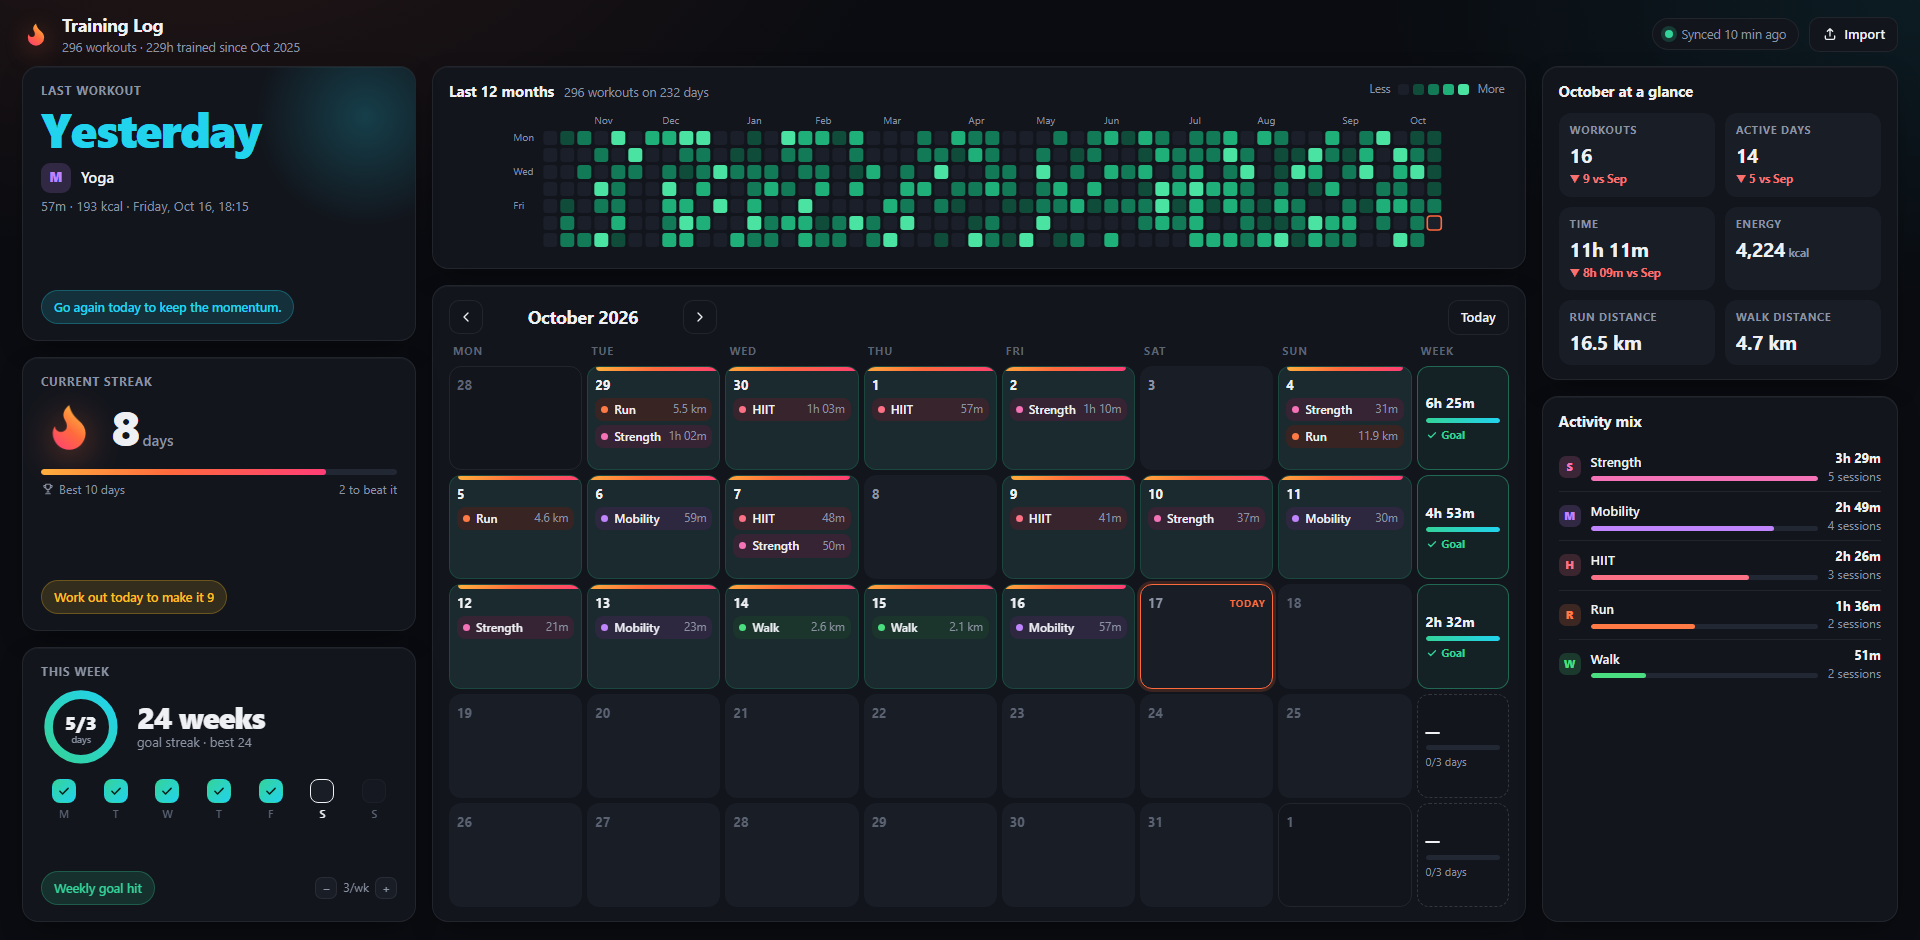
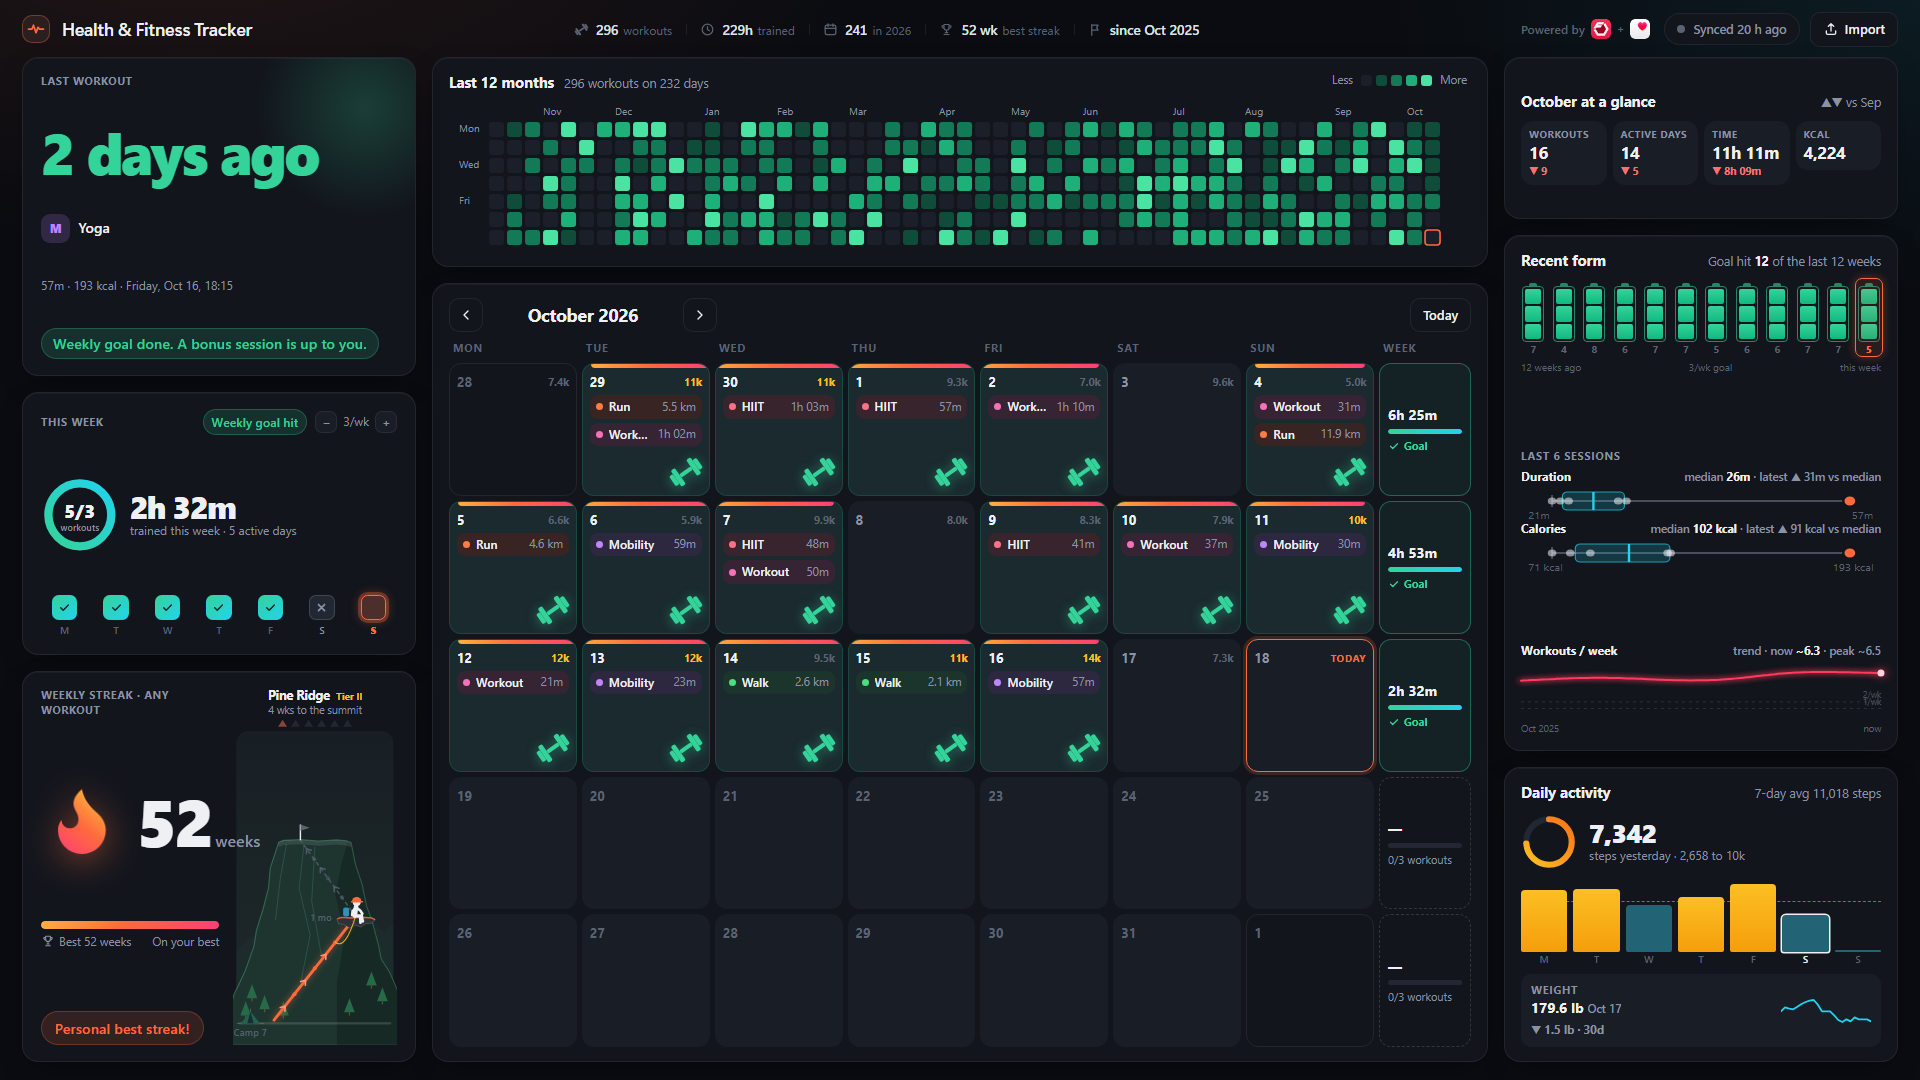
Update README and images for the current dashboard
The README described an older dashboard. It now covers the rest-day
aware nudge, the adjustable weekly goal, the Recent form trend line, the
smaller-window one-screen layout and Carl's climb. A new "Carl's climb"
section explains the mountain and fall rules, the API table lists
/analytics/weekly, the test badge shows 109, and "trend charts" is off
the not-yet list.

The dashboard screenshot is regenerated from the demo data at 1920x1080.
The pipeline banner now names the dashboard "Fitness Tracker" instead of
"Training Log".

diff --git a/README.md b/README.md
@@ -10,7 +10,8 @@
 Log a session in <a href="https://apps.apple.com/us/app/fitbod-gym-fitness-planner/id1041517543">Fitbod</a> (or any app that writes to Apple Health),
 and <a href="https://apps.apple.com/us/app/health-auto-export-json-csv/id1115567069">Health Auto Export</a>
 pushes it to a small receiver on your PC. The dashboard turns it into streaks, a year heatmap and a
-training calendar, so you always know when you last trained and what keeps the streak alive.
+training calendar, so you always know when you last trained and what keeps the streak alive. Your
+weekly streak becomes Carl, a little climber working his way up a new mountain every two months.
 </p>
 
 <p>
@@ -18,7 +19,7 @@ training calendar, so you always know when you last trained and what keeps the s
 <img alt="FastAPI" src="https://img.shields.io/badge/FastAPI-009688?logo=fastapi&logoColor=white">
 <img alt="SQLite" src="https://img.shields.io/badge/SQLite-003B57?logo=sqlite&logoColor=white">
 <img alt="Vanilla JS" src="https://img.shields.io/badge/frontend-vanilla%20JS-F7DF1E?logo=javascript&logoColor=black">
-<img alt="Tests" src="https://img.shields.io/badge/tests-101%20passing-34D399">
+<img alt="Tests" src="https://img.shields.io/badge/tests-109%20passing-34D399">
 <img alt="Local only" src="https://img.shields.io/badge/data-stays%20on%20your%20PC-FF6A3D">
 </p>
 
@@ -33,20 +34,26 @@ training calendar, so you always know when you last trained and what keeps the s
 
 <br>
 
-<img src="docs/images/dashboard.png" alt="Health &amp; Fitness Tracker dashboard showing last workout, current streak, weekly goal, a 12-month heatmap, the month calendar with streak bands, and month statistics" width="100%">
+<img src="docs/images/dashboard.png" alt="Health &amp; Fitness Tracker dashboard showing the last workout, this week's goal ring, the weekly streak with Carl's climb, a 12-month heatmap, the month calendar, recent form and daily activity" width="100%">
 <p align="center"><sub>Dashboard shown with generated demo data.</sub></p>
 
 ## Highlights
 
 - **Zero-touch sync.** Health Auto Export pushes new workouts in the background. Nothing to tap, no cloud
   account, no third-party server in between.
-- **Built to keep you consistent.** Time since your last workout, a weekly streak (weeks in a row with any workout)
-  with your personal best, a weekly goal ring (3 workouts), a GitHub-style heatmap of the last 12 months,
-  and a "Recent form" card: 12 weeks of goal history plus box plots of your last 6 sessions' duration and calories.
+- **Built to keep you consistent.** Time since your last workout with a rest-day-aware nudge, a weekly goal
+  ring (3 workouts by default, adjustable) with each day of the week ticked off, a weekly streak (weeks in a
+  row with any workout) with your personal best, and a GitHub-style heatmap of the last 12 months.
+- **Carl's climb.** The weekly streak card shows Carl climbing six themed mountains a year, one every
+  8 weeks: Pine Ridge, Red Rock Mesa, Ember Peak, Frost Spire, Canopy Crag and Summit of Stars. He pitches a
+  new camp on each summit, and after a full year the cycle repeats as a higher tier. See
+  [climb rules](#carls-climb).
+- **Recent form.** The last 12 weeks as batteries (one cell per workout of the goal), box plots of your last
+  6 sessions' duration and calories, and a smoothed workouts-per-week trend since you started.
 - **Daily activity too.** Steps (with a 10k goal and 7-day bars), walking distance, active energy, flights
   and a 30-day weight trend from a second Health Metrics automation; each calendar day shows its steps.
-- **One-screen dashboard.** Everything fits a 1080p monitor without scrolling; falls back to a scrolling
-  layout on smaller screens and phones.
+- **One-screen dashboard.** Everything fits on one screen without scrolling, from 1080p down to small laptop
+  windows (less important details hide first). It falls back to a scrolling layout on phones.
 - **Correct data.** Units normalised to metric, timezones preserved (a late-night workout stays on its day),
   re-sent workouts de-duplicated, and one malformed workout never blocks the rest of a sync.
 - **Private by default.** Token-protected ingest, dashboard reachable only from your PC, all data in a
@@ -130,7 +137,7 @@ samples. Unsummarized samples from several devices can overlap and inflate daily
 | HAE v2 → canonical model | `app/normalize.py`, `app/units.py`, `app/timeparse.py` |
 | Schema + migrations (`PRAGMA user_version`) | `app/db.py` |
 | Read queries shaped for the API | `app/queries.py` |
-| Streaks, per-day activity | `app/analytics.py` |
+| Streaks, per-day and per-week activity | `app/analytics.py` |
 | Health metrics storage + daily aggregation | `app/metrics.py` |
 | Dashboard UI (vanilla JS, no build) | `static/` |
 
@@ -184,6 +191,7 @@ All responses are JSON; errors are `{"error": {"code", "message", "details"}}`. 
 | `DELETE /api/v1/workouts/{id}` | this PC only |
 | `GET /api/v1/analytics/overview?today=YYYY-MM-DD&weekly_goal=3` | this PC only — last workout, day/week streaks, totals |
 | `GET /api/v1/analytics/days?from=&to=` | this PC only — per-day counts and time (heatmap) |
+| `GET /api/v1/analytics/weekly?today=YYYY-MM-DD` | this PC only — workouts per week since the first workout (zero-filled) |
 | `GET /api/v1/metrics` | this PC only — health metrics received, with date ranges |
 | `GET /api/v1/metrics/daily?names=step_count,weight_body_mass&from=&to=` | this PC only — daily values per metric |
 
@@ -193,6 +201,20 @@ at least one workout of any kind. Separately, `week_streak` tracks weeks reachin
 For both, the current week joins once it qualifies; until then the streak runs through last week and is
 flagged `at_risk`, with `remaining` workouts and `days_left`. `today` comes from the viewer so streaks never
 depend on the server's timezone.
+
+### Carl's climb
+
+The climb is replayed in the browser from `/analytics/weekly`, so it needs no stored state:
+
+- Each week with at least one workout is one step up. Week 4 is a rock ledge and week 8 the summit, where Carl
+  pitches a camp. His next workout starts the next mountain.
+- A missed week drops him to the base of the mountain he is on. Standing on a summit counts as being on it.
+- Missing a week while he is already at a base drops him down the previous mountain to its base, so each
+  further missed week costs one more mountain. At the first base camp there is nothing left to lose.
+- The current week only counts once it has a workout. Until then Carl hangs on (or waits at the summit)
+  with a warning.
+
+The streak number itself still follows the streak rules above and resets on any missed week.
 
 `from`/`to` are local dates, `from` inclusive and `to` exclusive. Distance and pace are only reported
 for distance-based categories (run, walk, hike, cycle, swim, row).
@@ -231,7 +253,7 @@ Example ingest response:
 ## Limitations / next steps
 - The fixture is built from the documented format; replace or extend it with a real export once the first
   sync arrives.
-- Not yet: personal records, trend charts, route map, Postgres. The schema and service
+- Not yet: personal records, route map, Postgres. The schema and service
   boundaries are set up so these are additive.
 
 ## Acknowledgements
